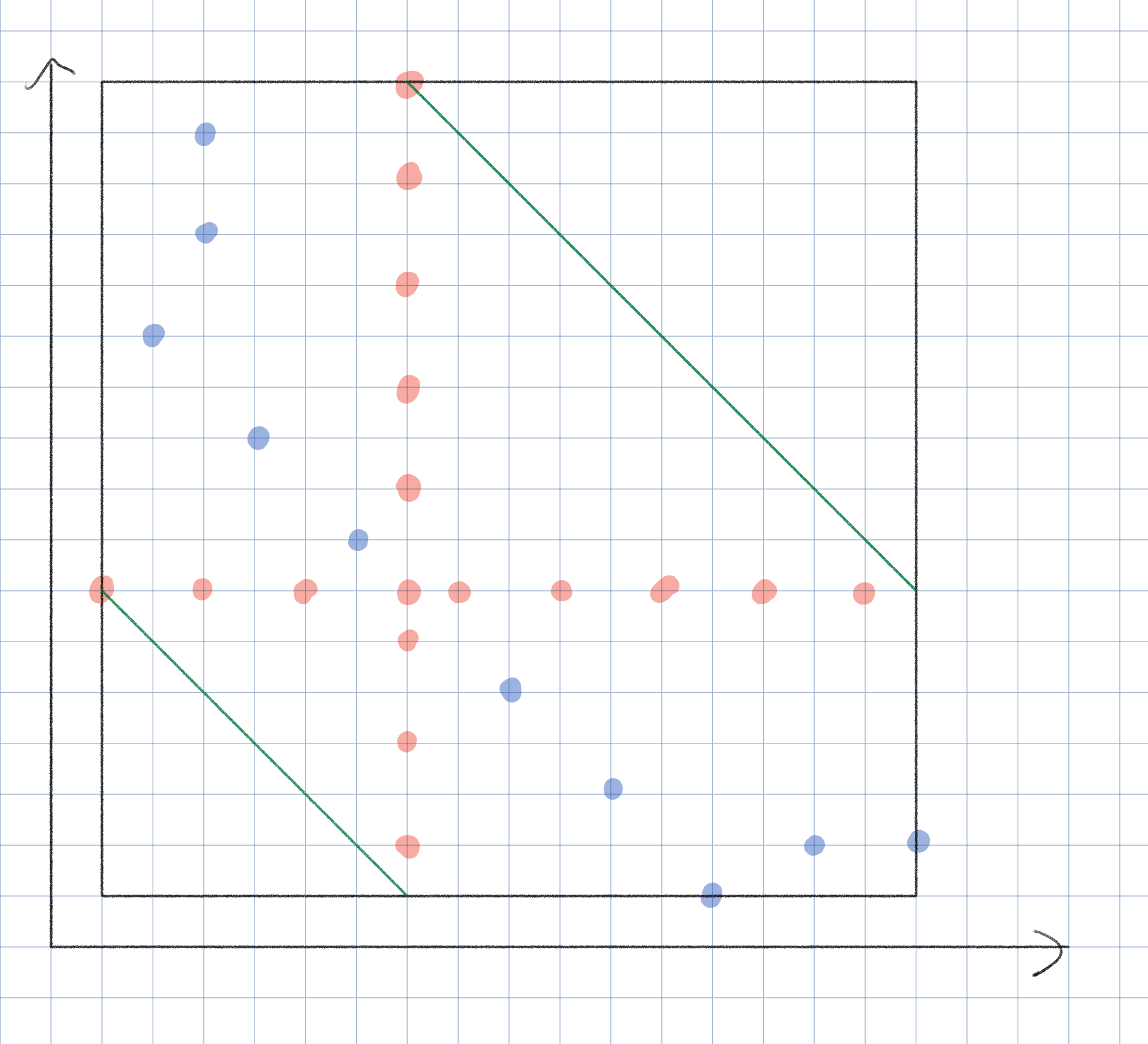
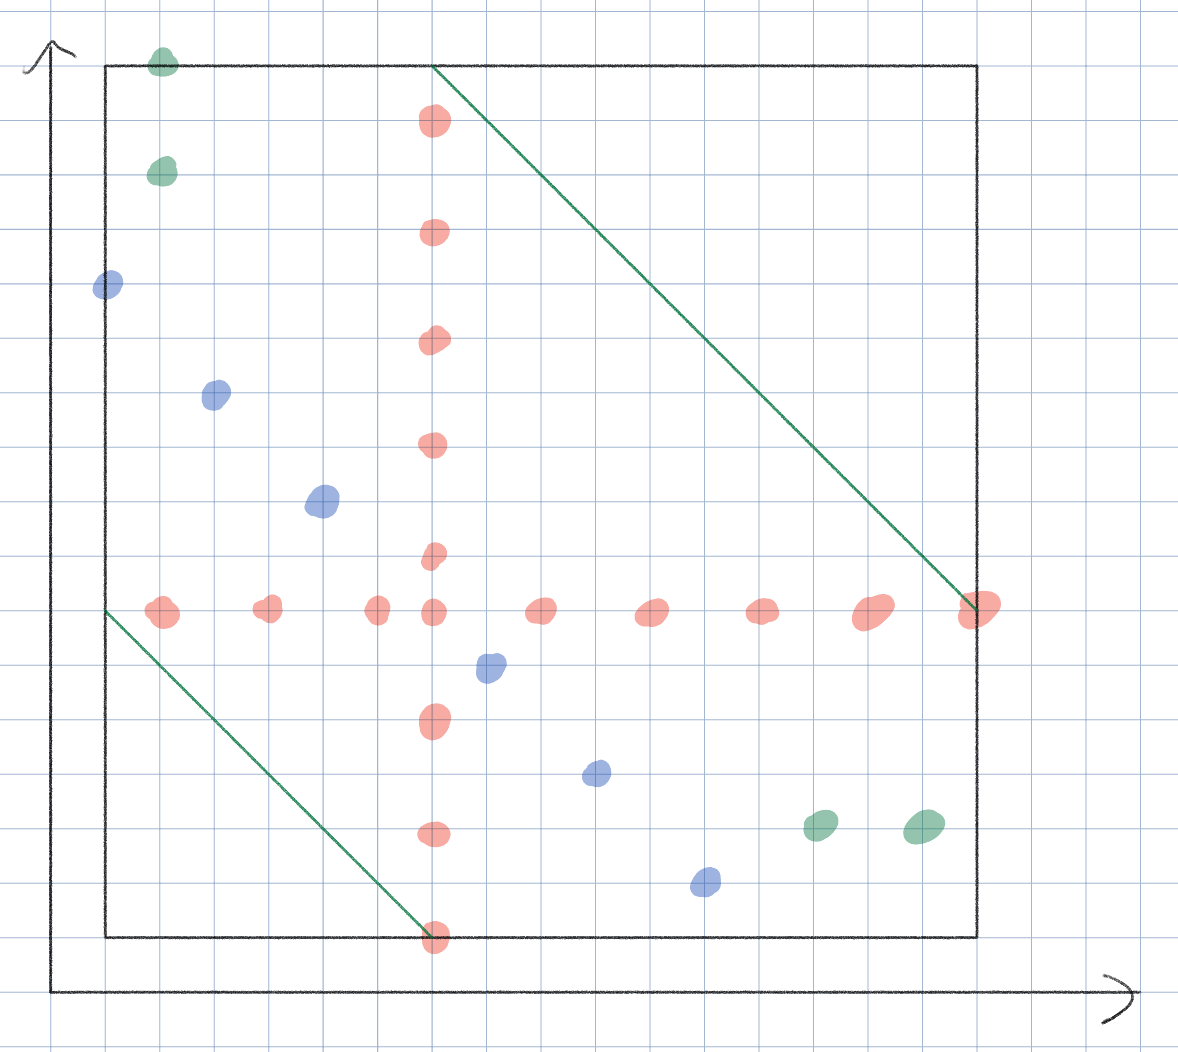
Gave algebraic constructions for p5

diff --git a/round2/round2.tex b/round2/round2.tex
@@ -14,9 +14,93 @@
 %%%%%%%%%%                 %%%%%%%%%%
 %%%%%%%%%%%%%%%%%%%%%%%%%%%%%%%%%%%%%
 \begin{solution}
-\begin{figure}[h!]
-\includegraphics[width=5cm]{round2/solution1.jpeg}
-\end{figure}
+\begin{center}
+\begin{asy}
+unitsize(4cm);
+defaultpen(fontsize(30pt));
+real HRT3 = sqrt(3) / 2;
+
+void drawCircle(real x, real y, real r) {
+path p = circle((x,y), r);
+draw(p);
+fill(p, white);
+}
+
+void drawCell(int gx, int gy, int num) {
+real x = 0.5 * gx;
+real y = HRT3 * gy;
+drawCircle(x, y, 0.35);
+label((string)num, (x,y));
+}
+
+void drawNumber(int gx, int gy, int number) {
+real x = 0.5 * gx;
+real y = HRT3 * gy;
+label(scale(1.5)*string(number), (x, y));
+}
+
+void drawEdge(int gx1, int gy1, int gx2, int gy2, bool doubled) {
+real x1 = 0.5 * gx1;
+real y1 = HRT3 * gy1;
+real x2 = 0.5 * gx2;
+real y2 = HRT3 * gy2;
+if (doubled) {
+real dx = x2 - x1;
+real dy = y2 - y1;
+real ox = -0.035 * dy / sqrt(dx * dx + dy * dy);
+real oy = 0.035 * dx / sqrt(dx * dx + dy * dy);
+draw((x1+ox,y1+oy)--(x2+ox,y2+oy));
+draw((x1-ox,y1-oy)--(x2-ox,y2-oy));
+} else {
+draw((x1,y1)--(x2,y2));
+}
+}
+
+drawEdge(2, 0, 4, 0, true);
+drawEdge(2, 0, 1, 1, true);
+drawEdge(2, 0, 3, 1, true);
+drawEdge(4, 0, 3, 1, false);
+drawEdge(4, 0, 5, 1, false);
+drawEdge(1, 1, 0, 2, false);
+drawEdge(1, 1, 2, 2, false);
+drawEdge(1, 1, 3, 1, false);
+drawEdge(3, 1, 2, 2, true);
+drawEdge(3, 1, 4, 2, true);
+drawEdge(3, 1, 5, 1, false);
+drawEdge(5, 1, 4, 2, true);
+drawEdge(5, 1, 6, 2, false);
+drawEdge(0, 2, 1, 3, false);
+drawEdge(0, 2, 2, 2, false);
+drawEdge(2, 2, 1, 3, false);
+drawEdge(2, 2, 3, 3, true);
+drawEdge(2, 2, 4, 2, false);
+drawEdge(4, 2, 3, 3, false);
+drawEdge(4, 2, 5, 3, false);
+drawEdge(4, 2, 6, 2, false);
+drawEdge(6, 2, 5, 3, true);
+drawEdge(1, 3, 3, 3, true);
+drawEdge(3, 3, 5, 3, false);
+
+int[][] numbers = {
+{28, 22, 27},
+{23, 33, 35, 24},
+{10, 21, 25},
+{30, 32}};
+
+drawCell(2, 0, numbers[3][0]);
+drawCell(4, 0, numbers[3][1]);
+drawCell(1, 1, numbers[2][0]);
+drawCell(3, 1, numbers[2][1]);
+drawCell(5, 1, numbers[2][2]);
+drawCell(0, 2, numbers[1][0]);
+drawCell(2, 2, numbers[1][1]);
+drawCell(4, 2, numbers[1][2]);
+drawCell(6, 2, numbers[1][3]);
+drawCell(1, 3, numbers[0][0]);
+drawCell(3, 3, numbers[0][1]);
+drawCell(5, 3, numbers[0][2]);
+\end{asy}
+\end{center}
 \end{solution}
 
 %%%%%%%%%%%%%%%%%%%%%%%%%%%%%%%%%%%%%
@@ -28,12 +112,20 @@
 \begin{solution}
 We will just approach this by bashing. Let $a_n$ denote the number of six-digit codes possible when $n$ of the digits on the board have been smudged.
 For our base case, $a_1 = 1$ because the only possible code is having all the digits be the same.
+
+\begin{claim}
+    For $2 \le n \le 6$,
+    $$a_n = n^6 - \sum_{k=1}^{n-1} \binom{n}{k} a_k$$
+\end{claim}
+\begin{proof}
+    The reasoning is fairly straightforward. The number of combinations in which we have at most $n$ digits is clearly $n^6$. Now, we just need to remove the cases in which we're not using all $n$ digits. There are $\binom{n}{k} a_k$ ways in which we can first choose a subset of $k$ digits and then make a string using all $k$ digits at least once.
+\end{proof}
 \begin{align*}
 a_2 &= 2^6 - \binom{2}{1} \cdot a_1 = 62\\
 a_3 &= 3^6 - \binom{3}{2} \cdot a_2 - \binom{3}{1} \cdot a_1 = 540\\
 a_4 &= 4^6 - \binom{4}{3}\cdot a_3 - \binom{4}{2} \cdot a_2 - \binom{4}{1} \cdot a_1 = 1560\\
 a_5 &= 5^6 - \binom{5}{4}\cdot a_4 - \binom{5}{3}\cdot a_3 - \binom{5}{2} \cdot a_2 - \binom{5}{1} \cdot a_1 = 1800\\
-a_6 &= 6! = 720\\
+a_6 &= 6! = 720 \tag{shortcutting go brrr}\\
 \end{align*}
 
 It is clear from this calculation that we get the most possible combinations when 5 of the digits have been smudged.
@@ -49,22 +141,22 @@ It is clear from this calculation that we get the most possible combinations whe
 \begin{solution}
 Note that a set of three numbers is \textit{balanced} if and only if their sum is congruent to 0 mod 3.
 
-Before we proceed, note that the rows will be 0-indexed from bottom to top. So, the top row will be row 9, while the bottom row will be row 0. We will also 0-index each hexagon on each row going from left to right. So, $a_{i,j}$ is the $i+1$th hexagon on the $j+1$th row from the bottom.
+We establish a coordinate system before proceeding. The rows will be 0-indexed from bottom to top. So, the top row will be row 9, while the bottom row will be row 0. We will also 0-index each hexagon on each row going from left to right. So, $a_{i,j}$ is the $j+1$th hexagon on the $i+1$th row from the bottom.
 
 We start by independently filling in the bottom numbers such that they take the values $a_{0,0} \dots a_{0,9}$ going from left to right. We can freely choose each number because no three hexagons on the bottom row are mutually adjacent.
 
 Now, we claim that the entire rest of the grid is determined by the bottom row. In particular, $$a_{i,j} \equiv (-1)^{i} \sum_{k=0}^{i} \binom{i}{k} a_{0,j+k} \mod 3$$
 
-This is easy to see by induction. The base case, for row 0, is trivial. Now, note the \textit{balanced} condition implies that
+This is easy to see by induction. The base case, for row 0, is trivial. For the inductive step, the \textit{balanced} condition implies that
 \begin{align*}
     a_{i,j} &\equiv -\paren{a_{i-1,j}+a_{i-1,j+1}} \mod 3\\
-            &= (-1)^{i} \paren{\sum_{k=0}^{i-1} \binom{i-1}{k} a_{0,j+k} + \sum_{k=0}^{i-1} \binom{i-1}{k} a_{0,j+1+k}}\\
-            &= (-1)^{i}\paren{a_{0,j} + a_{0,i+j} + \sum_{k=0}^{i-2} \paren{\binom{i-1}{k} + \binom{i-1}{k+1}} a_{0,j+k+1} }\\
-            &= (-1)^{i}\paren{a_{0,j} + a_{0,i+j} + \sum_{k=1}^{i-1} \binom{i}{k} a_{0,j+k} } \tag{hockey stick}\\
-            &= (-1)^{i} \sum_{k=0}^{i} \binom{i}{k} a_{0,j+k}\\
+            &\equiv (-1)^{i} \paren{\sum_{k=0}^{i-1} \binom{i-1}{k} a_{0,j+k} + \sum_{k=0}^{i-1} \binom{i-1}{k} a_{0,j+1+k}} \mod 3\\
+            &\equiv (-1)^{i}\paren{a_{0,j} + a_{0,i+j} + \sum_{k=0}^{i-2} \paren{\binom{i-1}{k} + \binom{i-1}{k+1}} a_{0,j+k+1} } \mod 3\\
+            &\equiv (-1)^{i}\paren{a_{0,j} + a_{0,i+j} + \sum_{k=1}^{i-1} \binom{i}{k} a_{0,j+k} } \tag{hockey stick} \mod 3\\
+            &\equiv (-1)^{i} \sum_{k=0}^{i} \binom{i}{k} a_{0,j+k} \mod 3\\
 \end{align*}
 
-Note that
+We now proceed onto the final calculation. Note that
 $$\binom{9}{0} = \binom{9}{9} = 1$$
 $$\binom{9}{1} = \binom{9}{8} = 9, 3\,|\,9$$
 $$\binom{9}{2} = \binom{9}{7} = 36, 3\,|\,36$$
@@ -77,7 +169,7 @@ So it is clear that
     &\equiv -\paren{a_{0,0} + a_{0,9}} \mod 3\\
 \end{align*}
 
-So, $a_{0,0} + a_{0,9} + a_{9,0} \equiv 0 \mod 3$, meaning they are balanced.
+Since $a_{0,0} + a_{0,9} + a_{9,0} \equiv 0 \mod 3$, they are balanced.
 
 \end{solution}
 
@@ -93,7 +185,7 @@ So, $a_{0,0} + a_{0,9} + a_{9,0} \equiv 0 \mod 3$, meaning they are balanced.
 \caption{The Diagram}
 \end{figure}
 
-Note that $AFIE$ is obviously a cyclic quadrilateral. We therefore know that there is a spiral similarity that sends $\triangle FIE$ to $\triangle XIY$. Since $\triangle FIE$ is an isosceles triangle, so is $XIY$. Therefore, the midpoint of $XY$, which we denote $M$, is also the foot of the perpendicular from $I$ to $XY$. Since $\angle IEY = 90$ and $\angle IFX = 90$, It follows that $IEMY$ and $IFMX$ are cyclic quadrilaterals. Now, note that $\angle MFI = 180 - \angle MXI = 180 - \angle YXI = 180 - \angle EFI$ by the spiral similarity from before. So, $M,E,F$ are collinear and we are done.
+Note that $AFIE$ is a cyclic quadrilateral because $\angle IFA = \angle IEA = 90^\circ$. We therefore know that there is a spiral similarity that sends $\triangle FIE$ to $\triangle XIY$. Since $\triangle FIE$ is an isosceles triangle, so is $XIY$. Therefore, the midpoint of $XY$, which we denote $M$, is also the foot of the perpendicular from $I$ to $XY$. Since $\angle IEY = 90$ and $\angle IFX = 90^\circ$, It follows that $IEMY$ and $IFMX$ are cyclic quadrilaterals. Now, note that $\angle MFI = 180^\circ - \angle MXI = 180^\circ - \angle YXI = 180^\circ - \angle EFI$ by the spiral similarity from before. So, $M,E,F$ are collinear and we are done.
 \end{solution}
 
 %%%%%%%%%%%%%%%%%%%%%%%%%%%%%%%%%%%%%
@@ -102,38 +194,127 @@ Note that $AFIE$ is obviously a cyclic quadrilateral. We therefore know that the
 %%%%%%%%%%                 %%%%%%%%%%
 %%%%%%%%%%%%%%%%%%%%%%%%%%%%%%%%%%%%%
 \begin{solution}
-What a painful construction problem...
+This was quite the painful construction problem...
 
-The answer is all $n,m$ such that $n+m \equiv 1 \mod 4$ or $n \equiv m \mod 4$.
+The answer is all $n,m$ such that \fbox{$n+m \equiv 1 \mod 4$ or $n \equiv m \mod 4$}.
 
-We first prove that this condition must hold. Note that the sum of the x and y coordinates must be congruent to $\sum_{x=1}^{m+n-1} \sum_{y=1}^{m+n-1} 1 \equiv 0 \mod 2$. Now, the sum of all $x+y$ mod 2 is congruent to $\frac{1}{2}\paren{m+n-1}\paren{3m+n}$. This means that $(m+n-1)(n-m)$ must be congruent to 0 mod 4. Since $(m+n-1)$ and $(n-m)$ always differ in parity, either $n-m \equiv 0 \mod 4$ or $m + n - 1 \equiv 0 \mod 4$.
+\begin{claim}
+    The above condition must hold.
+\end{claim}
+\begin{proof}
+    Let $T$ contain $l$ points of the form $(x_i,y_i)$.
+    $$\sum_i x_i + \sum_i y_i \equiv \sum_{k=1}^{m+n-1} 1 + \sum_{k=1}^{m+n-1} 1 \equiv 0 \mod 2$$
+    $$\sum_i x_i + y_i \equiv \sum_{k=m+1}^{2m+n-1} 1 \equiv \frac{1}{2} \paren{m+n-1}\paren{3m+n} \mod 2$$
+    Since $\paren{\sum_i x_i} + \paren{\sum_i y_i} = \sum_i \paren{x_i+y_i}$, $\frac{1}{2} (m+n-1)(3m+n)$ must be even to prevent a contradiction.
+    So, it follows that $(m+n-1)(n-m)$ is congruent to 0 mod 4. Since $(n-m)$ and $(m+n-1)$ always differ in parity, it follows that exactly one of them must be divisible by 4. This implies that either $n+m \equiv 1 \mod 4$ or $n \equiv m \mod 4$.
+\end{proof}
 
-Now, we present highly generalizable constructions for all six cases of $m,n$ modulo 4.
+\newcommand{\mainaxis}{
+    Select the points on the main axis so that each diagonal intersects exactly one point:
+    \begin{enumerate}
+        \item Select all the points of the form $(m, m+2k-1)$ for $1 \leq k \leq \floor{\frac{n}{2}}$
+        \item Select all the points of the form $(m, m-2k)$ for $1 \leq k \leq \floor{\frac{m-1}{2}}$
+        \item Select all the points of the form $(m+2k, m)$ for $1 \leq k \leq \floor{\frac{n-1}{2}}$
+        \item Select all the points of the form $(m-2k+1, m)$ for $1 \leq k \leq \floor{\frac{m}{2}}$
+    \end{enumerate}
+}
 
-\begin{figure}[h!]
-    \includegraphics[width=10cm]{round2/p5construct/construct_8_12.png}
-    \caption{Construction for when n and m are both congruent to 0 mod 4}
-\end{figure}
-\begin{figure}[h!]
-    \includegraphics[width=10cm]{round2/p5construct/construct_9_17.png}
-    \caption{Construction for when n and m are both congruent to 1 mod 4}
-\end{figure}
-\begin{figure}[h!]
-    \includegraphics[width=10cm]{round2/p5construct/construct_6_14.png}
-    \caption{Construction for when n and m are both congruent to 2 mod 4}
-\end{figure}
-\begin{figure}[h!]
-    \includegraphics[width=10cm]{round2/p5construct/construct_7_11.png}
-    \caption{Construction for when n and m are both congruent to 3 mod 4}
+In the next few pages, we will show that there always exists a construction for the subset $T$ if $n+m \equiv 1 \mod 4$ or $n \equiv m \mod 4$.
+
+\clearpage
+We first handle the case where $n \equiv m \mod 4$. Without loss of generality, assume that $n \geq m$. If $m \geq n$, we can just reflect our current construction across the point $(m,m)$ and translate it accordingly. We then apply the following steps:
+\begin{enumerate}
+    \item Select the point $(m,m)$ if and only if $m$ is odd.
+    \item \mainaxis
+    After this process is done, the lines $x+y = k$ where $m+1 \leq k < 2m$ and $2m < k \leq 2m+n-1$ will each intersect exactly one point from our set.
+    \item Select points on the diagonal $x+y = 2m$ so that all the rows and columns in the ``center'' intersect an odd number of points:
+    \begin{enumerate}
+        \item Select all the points of the form $(m+2k-1,m-2k+1)$ for $1 \leq k \leq \floor{\frac{m}{2}}$
+        \item Select all the points of the form $(m-2k,m+2k)$ for $1 \leq k \leq \floor{\frac{m-1}{2}}$
+    \end{enumerate}
+    After this process is done, the lines $x=m$, $y=m$, and $x+y = 2m$ will intersect $\floor{\frac{m-1}{2}} + \floor{\frac{n}{2}} + (m \mod 2)$, $\floor{\frac{n-1}{2}} + \floor{\frac{m}{2}} + (m \mod 2)$, and $\floor{\frac{m-1}{2}} + \floor{\frac{m}{2}} + (m \mod 2)$ points respectively. Since $m \equiv n \mod 4$, these expressions will all be odd. Furthermore, the lines $x=k$ for all $1 \leq k \leq 2m-1$ and $x=k$ for all $1 \leq k \leq 2m-1$ will all intersect exactly one point from our set.
+    \item Create a ``tail'' to cover all of the outer rows and columns:
+    \begin{enumerate}
+        \item Select all the points of the form $\paren{ m+2\floor{\frac{m}{2}}-1+2k, m-2\floor{\frac{m}{2}}+2 }$ for $1 \leq k \leq \frac{m-n}{2}$. This adds an even number of points since $m \equiv n \mod 4$, so the line $y = m-2\floor{\frac{m}{2}}+2$ still intersects an odd number of points.
+        \item Select all the points of the form $\paren{ m-2\floor{\frac{m}{2}}+1, m+2\floor{\frac{m}{2}}+2k }$ for $1 \leq k \leq \frac{m-n}{2}$. This adds an even number of points for the same reason as before, so the line $x = m-2\floor{\frac{m}{2}}+1$ still intersects an odd number of points.
+    \end{enumerate}
+    With the addition of these points, all horizontal and vertical lines now intersect an odd number of points; all lines of the form $x = k$ for all $2m \geq k < m+n$ and $y=k$ for all $2m \geq k < m+n$ will also intersect exactly one point.
+    
+    Let the set of points that we selected in Step 4 be denoted $U$. Notice that $\paren{ m+2\floor{\frac{m}{2}}-1}+\paren{2k + m-2\floor{\frac{m}{2}}+2} = \paren{m-2\floor{\frac{m}{2}}+1}+\paren{m+2\floor{\frac{m}{2}}+2k}$. So, every time a line of the form $x+y=c$ for some constant $c$ intersects an element of $U$, it intersects exactly two elements of $U$. So all diagonal lines will continue to intersect an odd number of elements.
+\end{enumerate}
+
+Figure \ref{fig:congconstruct} shows how our construction is supposed to appear.
+
+\begin{figure}[htbp]
+    \begin{tabular}{c c}
+    \includegraphics[width=7cm]{round2/p5construct/construct_8_12.png}&
+    \includegraphics[width=7cm]{round2/p5construct/construct_9_17.png}\\
+    \includegraphics[width=7cm]{round2/p5construct/construct_6_14.png}&
+    \includegraphics[width=7cm]{round2/p5construct/construct_7_11.png}\\
+    \end{tabular}
+    \caption{Construction applied when m and n are congruent to (going from left to right, top to bottom: 0 mod 4, 1 mod 4, 2 mod 4, 3 mod 4}
+    \label{fig:congconstruct}
 \end{figure}
 
-\begin{figure}[h!]
-    \includegraphics[width=10cm]{round2/p5construct/construct_12_13.png}
-    \caption{Construction for when m is congruent to 0 mod 4 and n is congruent to 1 mod 4. If the reverse is true, just flip the construction.}
+\clearpage
+We now handle the case where $m \equiv 0 \mod 4$ and $n \equiv 1 \mod 4$ without loss of generality. Again, if the reverse is true, reflect the entire construction across $(m,m)$; this entire problem is translation-independent. We then apply the following steps:
+
+\begin{enumerate}
+    \item Select the point $(m,m)$.
+    \item \mainaxis
+    After this process is done, the lines $x+y = k$ where $m+1 \leq k \leq 2m+n-1$ will each intersect exactly one point from our set.
+    \item Select all points of the form $(m-2k, 1+2k)$ for $0 \leq k \leq \floor{\frac{m}{2}}-1$.
+    After this process is done, the lines $x=m$, $y=m$, and $x+y = m+1$ will intersect $\floor{\frac{m-1}{2}} + \floor{\frac{n}{2}} + 1 + 1$, $\floor{\frac{n-1}{2}} + \floor{\frac{m}{2}} + 1$, and $\floor{\frac{m}{2}} + 1$ points respectively. Since $m \equiv 0 \mod 4$ and $n \equiv 1 \mod 4$, these expressions are all odd. Furthermore, with the addition of these points, all lines of the form $x=k$ and $y=k$ where $1 \leq k \leq m-1$ will now intersect exactly one point.
+    \item Create a ``tail'' to cover all of the outer rows and columns:
+    \begin{enumerate}
+        \item Select all points of the form $(2, m+2k)$ for $1 \leq k \leq \floor{\frac{n-1}{2}}$
+        \item Select all points of the form $(m+2k-1, 3)$ for $1 \leq k \leq \floor{\frac{n-1}{2}}$
+    \end{enumerate}
+    With the addition of these points, all horizontal and vertical lines now intersect an odd number of points; all lines of the form $x = k$ and $y=k$ for all $m+1 \geq k < m+n$ will intersect exactly one point.
+    
+    Let the set of points that we selected in Step 4 be denoted $U$. Notice that $\paren{2}+\paren{m+2k} = \paren{m+2k-1}+\paren{3}$. So, every time a line of the form $x+y=c$ for some constant $c$ intersects an element of $U$, it intersects exactly two elements of $U$. So all diagonal lines will continue to intersect an odd number of elements.
+\end{enumerate}
+Figure \ref{fig:zerooneconstruct} shows how our construction is supposed to appear.
+
+\begin{figure}[htbp]
+    \includegraphics[width=8cm]{round2/p5construct/construct_12_13.png}
+    \caption{Construction for when m is congruent to 0 mod 4 and n is congruent to 1 mod 4.}
+    \label{fig:zerooneconstruct}
 \end{figure}
-\begin{figure}[h!]
-    \includegraphics[width=10cm]{round2/p5construct/construct_11_14.png}
-    \caption{Construction for when m is congruent to 3 mod 4 and n is congruent to 2 mod 4. If the reverse is true, just flip the construction.}
+
+\clearpage
+We now handle the case where $m \equiv 3 \mod 4$ and $n \equiv 2 \mod 4$ without loss of generality (again, if the reverse is true, reflect the entire construction across $(m,m)$). We then apply the following steps:
+
+\begin{enumerate}
+    \item Use the construction for when $n=2$
+    \begin{enumerate}
+        \item Select every point such that $x+y = m+1$.
+        \item Select every point on the segment from $\paren{\frac{m+1}{2}, \frac{m+1}{2}}$ to $\paren{\frac{m+1}{2}, m+1}$ inclusive.
+        \item Select every point on the segment from $\paren{m+1, \frac{m+1}{2}+1}$ to $\paren{m+1, m}$ inclusive.
+    \end{enumerate}
+    The line $x+y=m+1$ intersects $m \equiv 1 \mod 2$ points. All other lines of the form $x+y=k$ for $m+1 < k \leq 2m+1$ intersect exactly one point each. The lines $x=\frac{m+1}{2}$ and $x=m+1$ will intersect $\frac{m+3}{2}$ and $\frac{m-1}{2}$ points respectively, which are both odd; all \textbf{other} lines of the form $x=k$ for $0 < k \leq m+1$ intersect exactly one point, which itself will be on the diagonal of $x+y=m+1$. The lines $y=m+1$ and $y=k$ for $1 \leq k \leq \frac{m-1}{2}$ intersect exactly one point, while the lines $y=k$ for $\frac{m+3}{2} \leq k \leq m$ will intersect three points.
+    \item Extend the construction to hit all the diagonals.
+    \begin{enumerate}
+        \item Select every point of the form $(m+1, m+2k)$ for $1 \leq k \leq \frac{n-2}{2}$.
+        \item Select every point of the form $(m+2k, m)$ for $1 \leq k \leq \frac{n-2}{2}$.
+    \end{enumerate}
+    Note that this process allows us to select exactly one point from each diagonal of the form $x+y=k$ where $2m+2 \leq k \leq 2m+n-1$.
+    Furthermore, the lines $x=m+1$ and $y=m$ will each intersect $\frac{n-2}{2}$ extra points, which is even.
+    \item Complete the construction for all the new rows and columns.
+    \begin{enumerate}
+        \item Select every point of the form $(1, m+1+2k)$ for $1 \leq k \leq \frac{n-2}{2}$.
+        \item Select every point of the form $(m+1+2k, 1)$ for $1 \leq k \leq \frac{n-2}{2}$.
+    \end{enumerate}
+    After adding these points, every line of the form $x=k$ and $y=k$ where $m+3 \leq k \leq m+n-1$ will intersect exactly one point in our set.
+    
+    For purposes of notation, let the set of points that we just selected in step 3 be denoted $U$. Notice that $\paren{1}+\paren{m+1+2k} = \paren{m+1+2k}+\paren{1}$. So, every time a line of the form $x+y=c$ for some constant $c$ intersects an element of $U$, it intersects exactly two elements of $U$. So all diagonal lines will continue to intersect an odd number of elements.
+\end{enumerate}
+
+Figure \ref{fig:twothreeconstruct} shows how our construction is supposed to appear.
+\begin{figure}[htbp]
+    \includegraphics[width=8cm]{round2/p5construct/construct_11_14.png}
+    \caption{Construction for when m is congruent to 3 mod 4 and n is congruent to 2 mod 4.}
+    \label{fig:twothreeconstruct}
 \end{figure}
 
 \end{solution}
